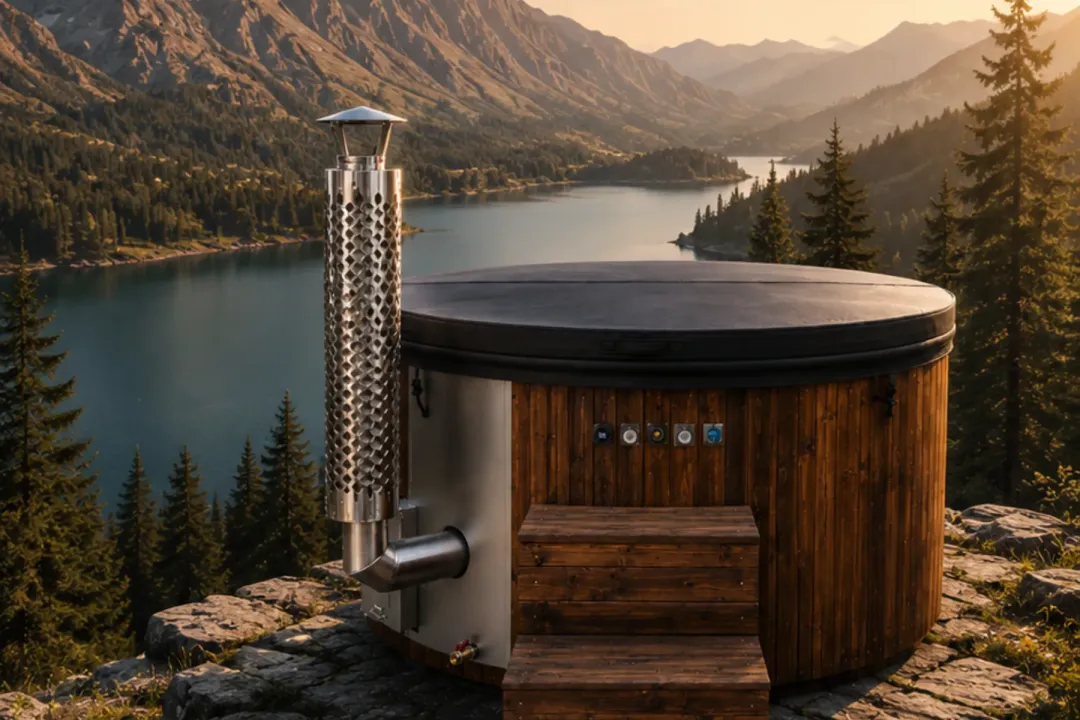
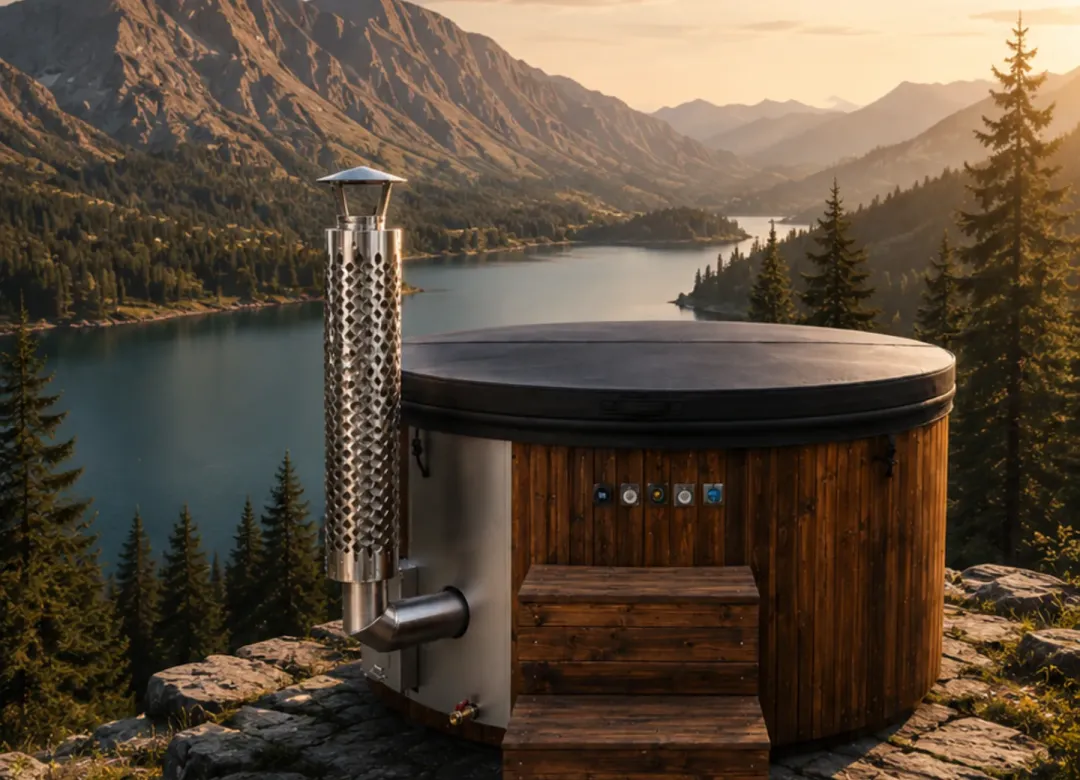
Hero mobil: ~17% spațiu deasupra hornului (mai mult peisaj peste ciubăr)

diff --git a/src/components/Hero.tsx b/src/components/Hero.tsx
@@ -50,10 +50,10 @@ export default function Hero() {
             sizes="100vw"
             alt="Ciubăr premium PMPFiber pe malul unui lac de munte, la apus"
             width={1800}
-            height={1200}
+            height={1300}
             fetchPriority="high"
             decoding="async"
-            className="aspect-[3/2] w-full object-cover"
+            className="aspect-[18/13] w-full object-cover"
           />
           {/* Scrim sus pentru navbar */}
           <div className="pointer-events-none absolute inset-x-0 top-0 h-28 bg-gradient-to-b from-ink-950/75 to-transparent" />